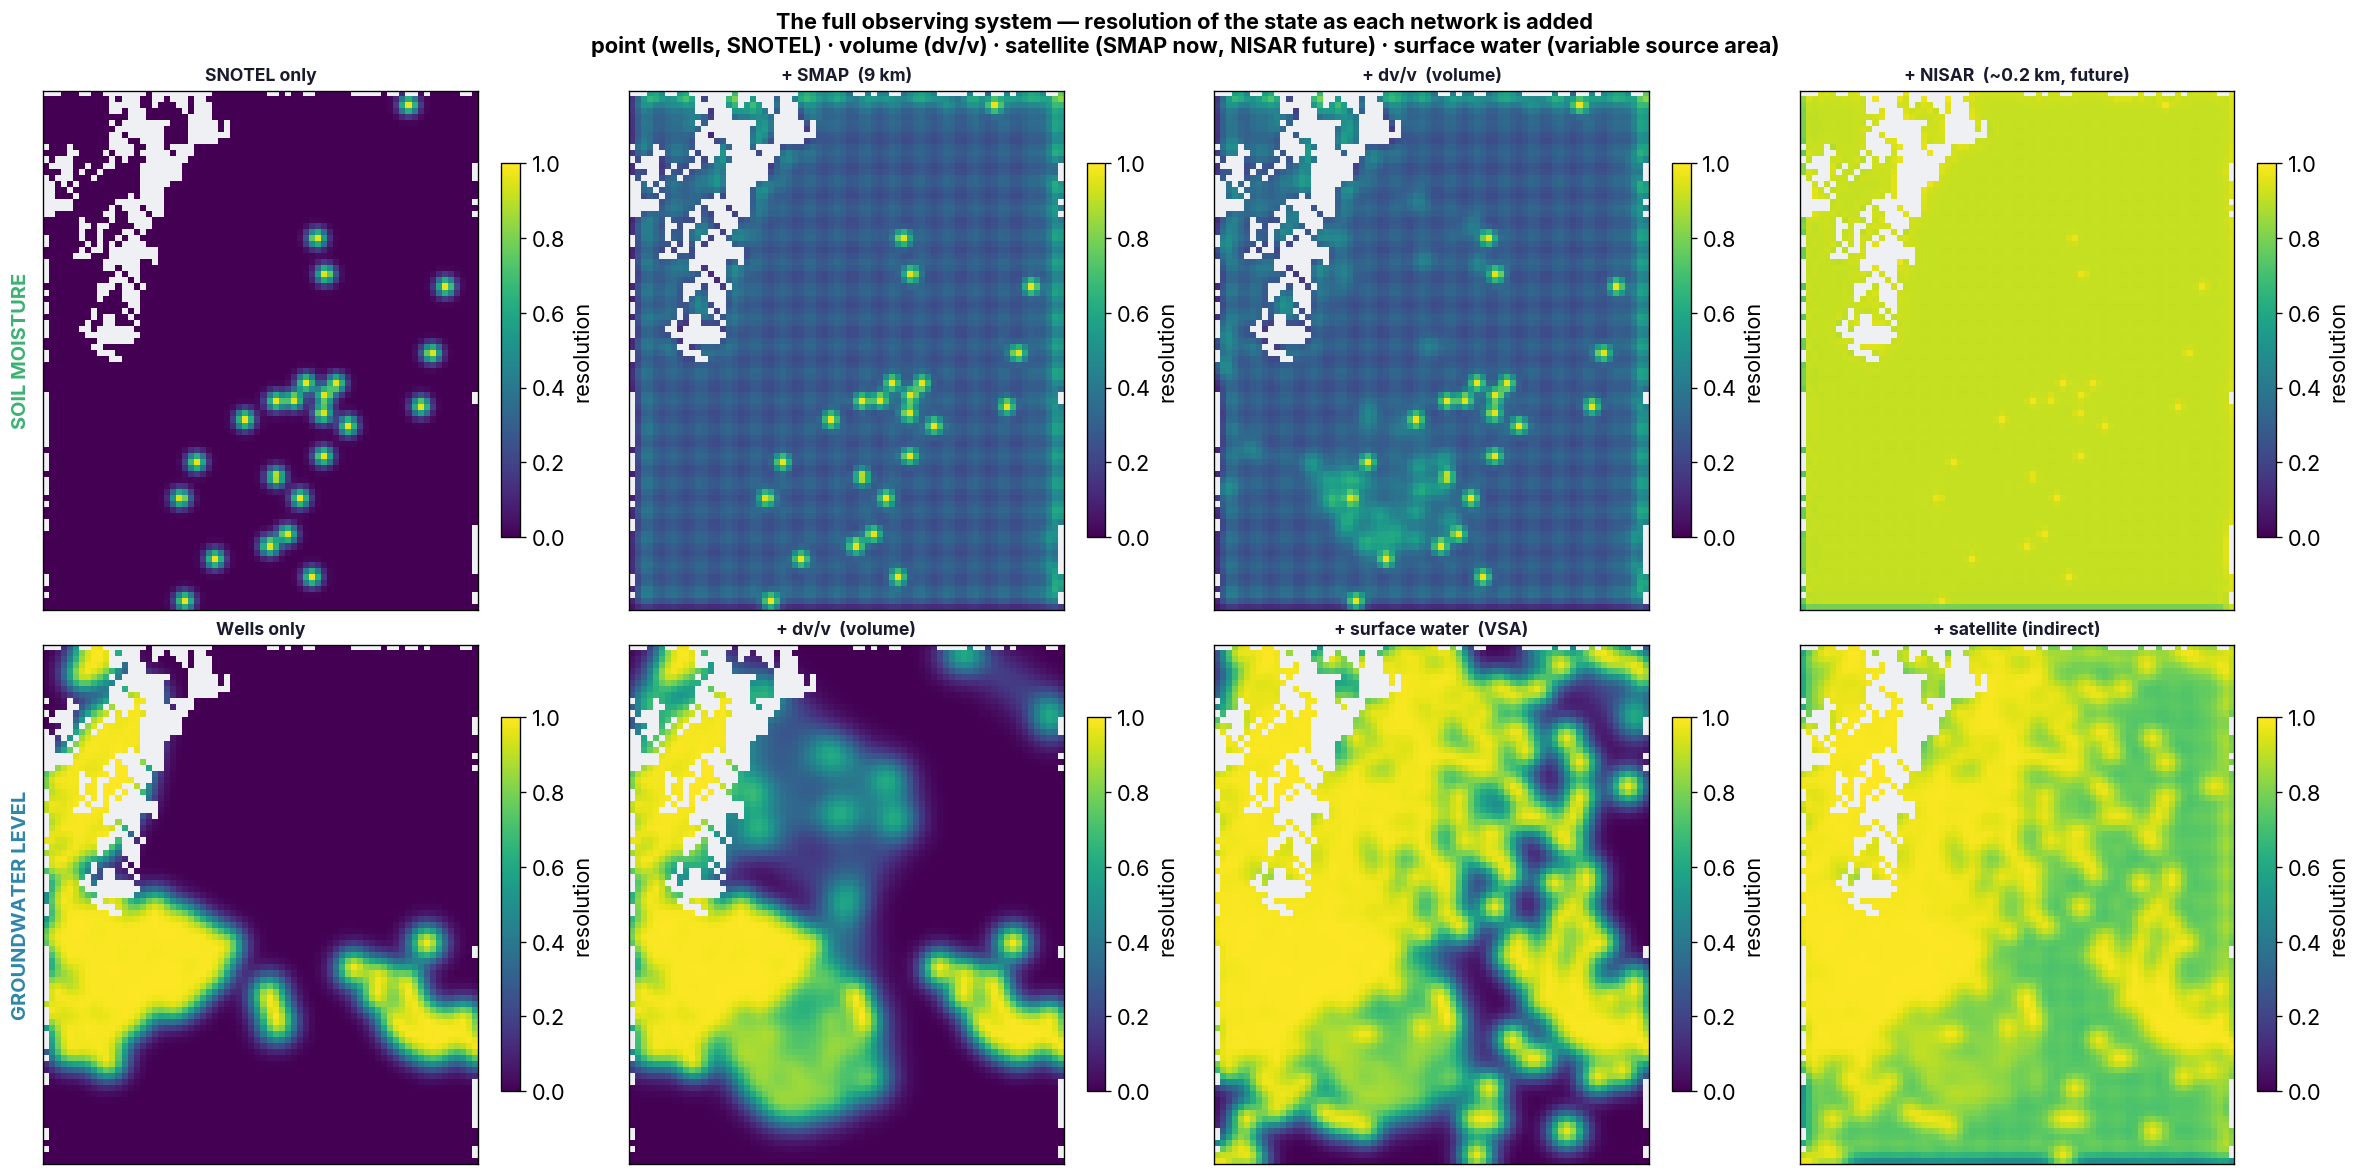
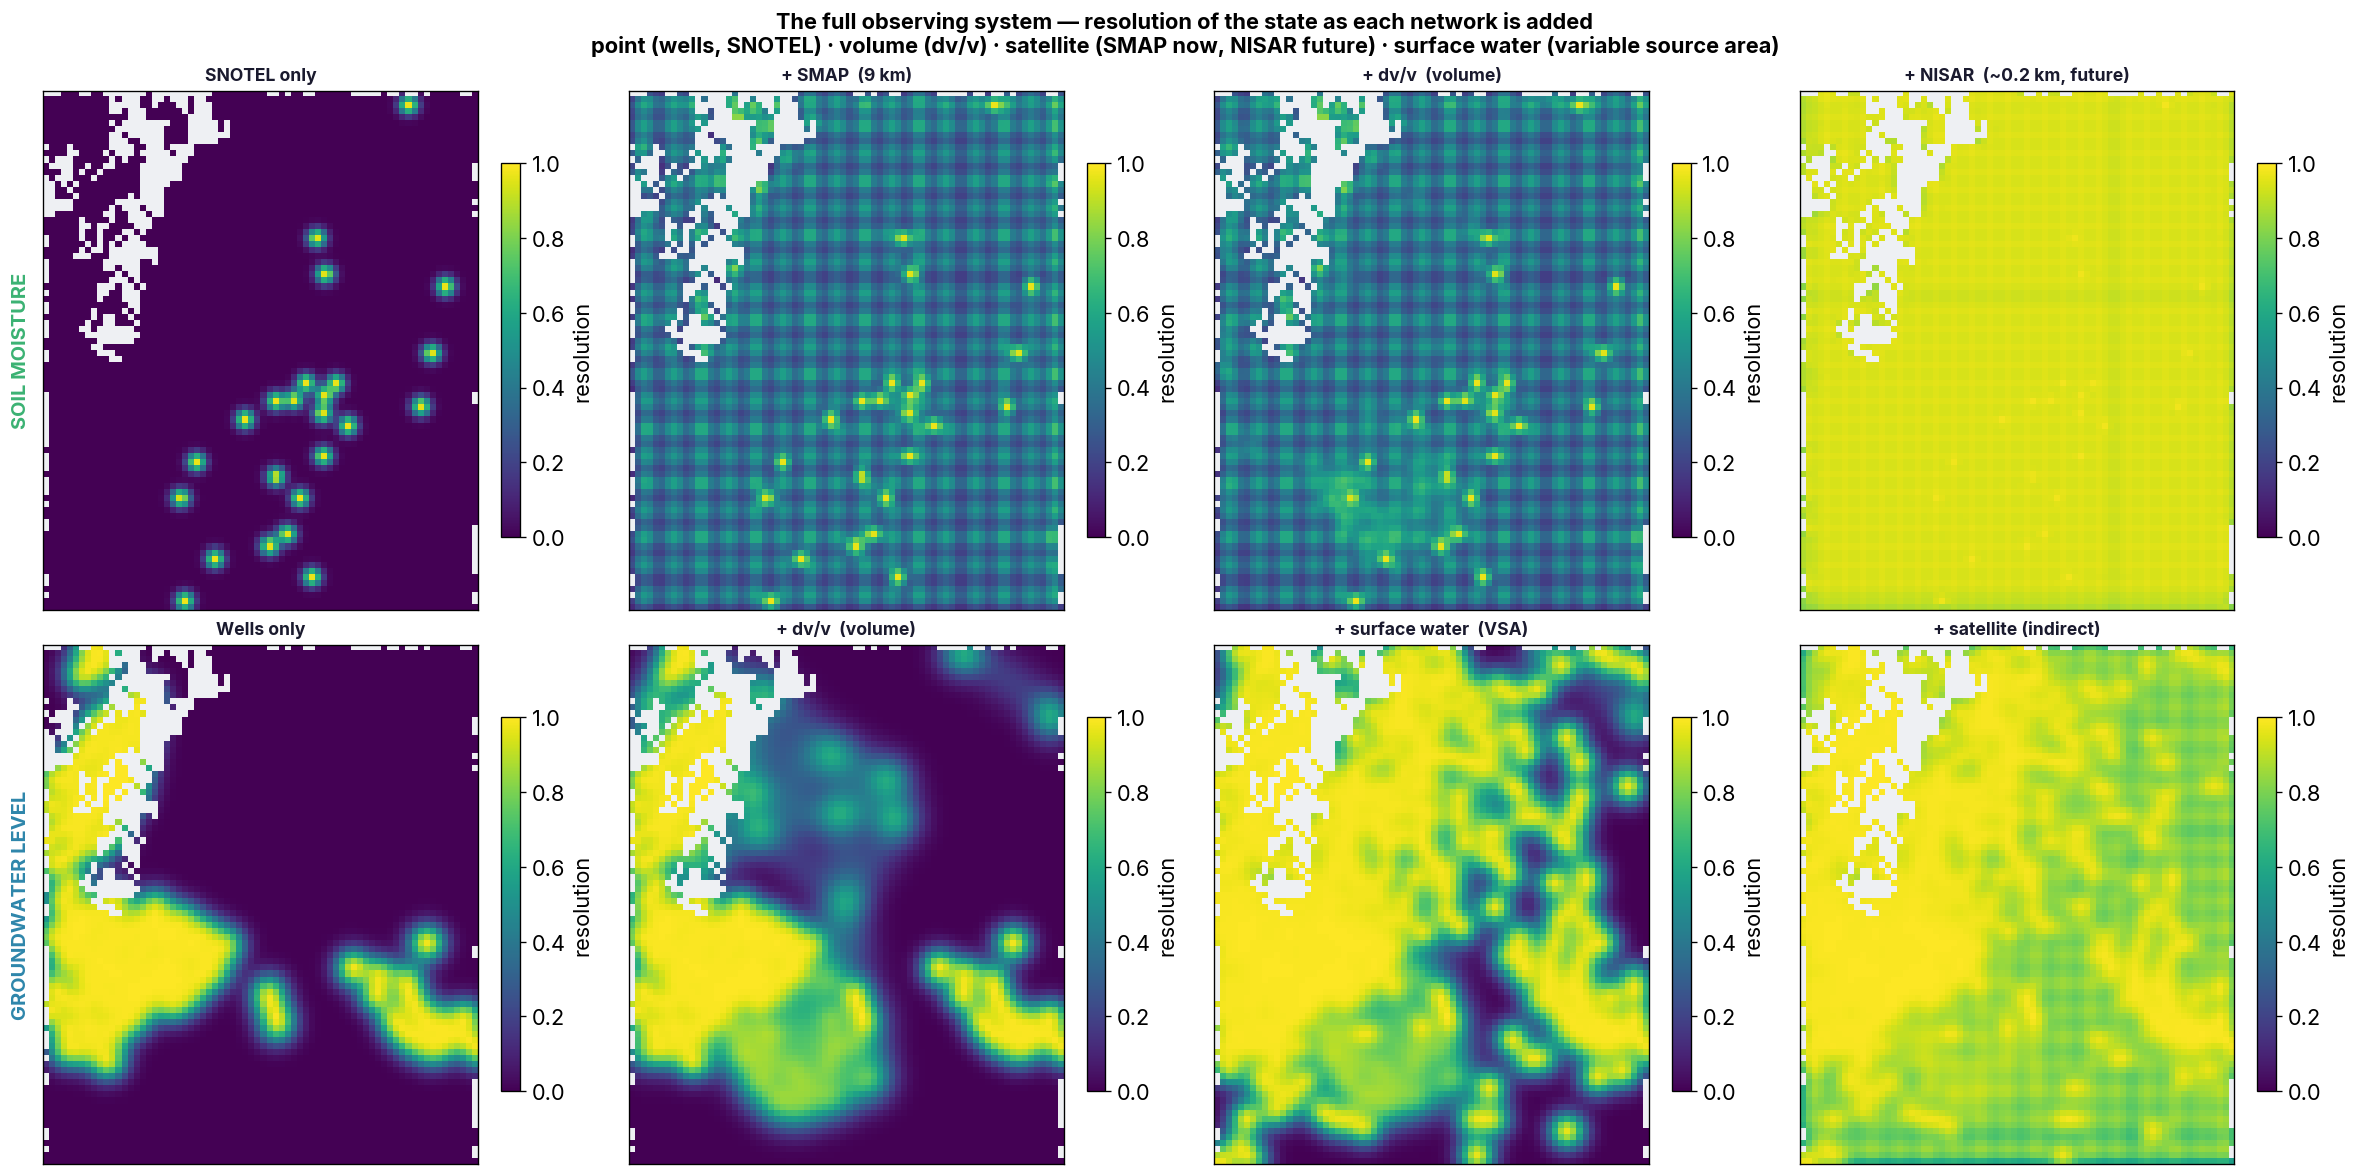
fix(obs): address Copilot review on PR #111 (satellite operator, validation, dead code, caption)
Committed directly to main (PR #111 already merged).

src/models/observability.py:
  - satellite_footprints is now a TRUE top-hat pixel average -- each grid cell is assigned to the
    pixel it falls in and averaged uniformly -- matching the docstring, which had claimed a top-hat
    "averages the state over its cell" while the code used a Gaussian of infinite support. The cell-
    assignment form is robust whether the pixel is coarser than the grid (many cells/pixel) or finer
    (one), and never leaks across the domain edge. Validates pixel_km > 0 and that a `land` mask (1-D
    or a flattened 2-D raster) matches n_cells -- a 2-D mask previously broadcast silently.
  - channel_footprints validates hand_m and land both match n_cells, so a raster misalignment fails
    loudly at the call rather than cryptically later.

notebooks/make_observing_system_figure.py:
  - removed the dead `... if False else ...` branch in the surface-water operator.
  - stack() now takes the prior C explicitly (no closure over a reassigned variable) and SHORT-CIRCUITS
    to an all-zero field when every operator is empty, instead of raising on np.vstack([]).

docs/twin/05-state-evaluation.qmd: reworded the ungrammatical caption "the gauges see only in integral"
-> "whose discharge the gauges see only as a basin integral".

Tests: satellite footprints average uniformly (top-hat, not tapered), reject a bad pixel size and a
[…]

diff --git a/src/models/observability.py b/src/models/observability.py
@@ -188,30 +188,40 @@ def satellite_footprints(coords_km: NDArray[np.float64], pixel_km: float,
     """Footprints of a gridded satellite product with a ``pixel_km`` pixel over the whole domain.
 
     A satellite differs from a ground network in two decisive ways. It observes **everywhere**, not at a
-    handful of sites -- each pixel is a footprint that averages the state over its cell, so the operator
-    is a tiling of blobs across the domain (SMAP, 9 km: dense but coarse; NISAR L-band SAR, ~0.2 km:
-    fine). But it is also **not a measurement of the state** -- a satellite retrieves soil moisture by
-    inverting L-band brightness temperature or radar backscatter through a retrieval model, so it is a
-    spatially-resolved *estimate* carrying retrieval and vegetation/roughness error. Its noise here is
-    therefore a MODEL error, larger than a probe's instrument error, and it must not be treated as
-    ground truth. What it uniquely provides is coverage, not accuracy.
+    handful of sites -- each pixel is a footprint that **averages the state uniformly over the cells that
+    fall within it** (a top-hat pixel average, not a Gaussian): assigning every grid cell to the pixel
+    it lands in tiles the domain exactly, so it is robust whether the pixel is coarser than the grid
+    (SMAP, 9 km: many cells per pixel) or finer (NISAR L-band SAR, ~0.2 km: one). But it is also **not a
+    measurement of the state** -- a satellite retrieves soil moisture by inverting L-band brightness
+    temperature or radar backscatter through a retrieval model, so it is a spatially-resolved *estimate*
+    carrying retrieval and vegetation/roughness error. Its noise here is therefore a MODEL error, larger
+    than a probe's instrument error, and it must not be treated as ground truth.
 
-    Returns ``(n_pixels, n_cell)``. ``land`` (an ``(n_cell,)`` mask) drops all-water pixels.
+    ``land`` (an ``(n_cell,)`` mask, 1-D or a raster flattened to match) drops all-water pixels.
+    Returns ``(n_pixels, n_cell)``.
     """
+    if not (np.isfinite(pixel_km) and pixel_km > 0):
+        raise ValueError(f"pixel_km must be a positive finite number, got {pixel_km!r}")
     c = np.asarray(coords_km, dtype="float64")
+    n = c.shape[0]
+    if land is None:
+        keep = np.ones(n, dtype=bool)
+    else:
+        keep = np.asarray(land, dtype=bool).ravel()          # accept a 2-D raster mask, flattened
+        if keep.size != n:
+            raise ValueError(f"land mask has {keep.size} cells but coords_km has {n}")
     x, y = c[:, 0], c[:, 1]
-    # pixel-centre lattice covering the domain
-    cx = np.arange(x.min() + pixel_km / 2, x.max() + pixel_km, pixel_km)
-    cy = np.arange(y.min() + pixel_km / 2, y.max() + pixel_km, pixel_km)
-    keep = np.ones(c.shape[0], dtype=bool) if land is None else np.asarray(land, dtype=bool)
+    # assign each cell to the pixel it falls in, then average uniformly over a pixel's member cells
+    ix = np.floor((x - x.min()) / pixel_km).astype(np.int64)
+    iy = np.floor((y - y.min()) / pixel_km).astype(np.int64)
+    pix = ix * (iy.max() + 1) + iy
     rows = []
-    for px in cx:
-        for py in cy:
-            g = np.exp(-((x - px) ** 2 + (y - py) ** 2) / (2.0 * (pixel_km / 2.0) ** 2)) * keep
-            tot = g.sum()
-            if tot > 1e-9:                                # skip pixels with no land in them
-                rows.append(g / tot)
-    return np.vstack(rows) if rows else np.empty((0, c.shape[0]))
+    for pid in np.unique(pix):
+        g = (pix == pid) & keep
+        tot = int(g.sum())
+        if tot > 0:                                          # skip pixels with no land in them
+            rows.append(g.astype("float64") / tot)
+    return np.vstack(rows) if rows else np.empty((0, n))
 
 
 def channel_footprints(coords_km: NDArray[np.float64], hand_m: ArrayLike,
@@ -224,11 +234,15 @@ def channel_footprints(coords_km: NDArray[np.float64], hand_m: ArrayLike,
     valley floors and riparian corridors — ``HAND <= hand_max_m``. Each becomes a point-like observation
     that pins the shallow water table where the gauges only see the *integrated* discharge.
 
-    Returns ``(n_channel_cells, n_cell)``.
+    ``hand_m`` and ``land`` may be 1-D or a raster flattened to match ``coords_km``; both must have one
+    value per cell. Returns ``(n_channel_cells, n_cell)``.
     """
     c = np.asarray(coords_km, dtype="float64")
+    n = c.shape[0]
     hand = np.asarray(hand_m, dtype="float64").ravel()
     lnd = np.asarray(land, dtype=bool).ravel()
+    if hand.size != n or lnd.size != n:
+        raise ValueError(f"hand_m ({hand.size}) and land ({lnd.size}) must both match n_cells ({n})")
     chan = lnd & np.isfinite(hand) & (hand <= hand_max_m)
     return np.vstack([point_footprint(c, c[i], width_km) for i in np.flatnonzero(chan)]) \
         if chan.any() else np.empty((0, c.shape[0]))

diff --git a/tests/test_observability.py b/tests/test_observability.py
@@ -24,6 +24,14 @@ from src.models.observability import (
 )
 
 
+def _raises(fn, exc=Exception):
+    try:
+        fn()
+    except exc:
+        return True
+    return False
+
+
 def _grid(n=16, span=20.0):
     a = np.linspace(0, span, n)
     xx, yy = np.meshgrid(a, a)
@@ -130,6 +138,25 @@ def test_satellite_footprints_tile_the_domain_and_a_finer_pixel_resolves_more():
     assert res_coarse.min() > res_pts.min()               # no dark corners under a satellite
 
 
+def test_satellite_footprints_validate_inputs_and_average_uniformly():
+    c = _grid(n=12, span=24.0)
+    G = satellite_footprints(c, pixel_km=8.0)
+    for row in G:                                        # top-hat: a pixel averages uniformly
+        nz = row[row > 0]
+        assert np.allclose(nz, nz[0])
+    assert _raises(lambda: satellite_footprints(c, pixel_km=0.0))
+    assert _raises(lambda: satellite_footprints(c, pixel_km=8.0, land=np.ones(len(c) + 3, bool)))
+    land2d = np.ones((12, 12), dtype=bool)               # a 2-D raster mask (flattened) is accepted
+    assert satellite_footprints(c, 8.0, land=land2d).shape[0] > 0
+
+
+def test_channel_footprints_validate_lengths():
+    c = _grid(n=10, span=20.0)
+    hand = np.hypot(c[:, 0] - 10, c[:, 1] - 10)
+    assert _raises(lambda: channel_footprints(c, hand[:-2], np.ones(len(c), bool)))
+    assert _raises(lambda: channel_footprints(c, hand, np.ones(len(c) - 1, bool)))
+
+
 def test_channel_footprints_sit_only_on_low_hand_cells():
     c = _grid(n=20, span=20.0)
     hand = np.hypot(c[:, 0] - 10, c[:, 1] - 10)           # a valley at the centre, ridges at the edge
@@ -169,6 +196,8 @@ if __name__ == "__main__":
     test_more_sensors_never_reduce_resolution_and_no_sensors_is_zero()
     test_marginal_gain_is_where_the_added_sensor_reaches_beyond_the_base()
     test_satellite_footprints_tile_the_domain_and_a_finer_pixel_resolves_more()
+    test_satellite_footprints_validate_inputs_and_average_uniformly()
+    test_channel_footprints_validate_lengths()
     test_channel_footprints_sit_only_on_low_hand_cells()
     test_temporal_resolution_captures_the_space_time_tradeoff()
     test_information_gain_is_monotone_in_variance_reduction()

diff --git a/notebooks/make_observing_system_figure.py b/notebooks/make_observing_system_figure.py
@@ -86,36 +86,36 @@ def main():
     G_dvv = np.vstack(dvv)
     G_smap = satellite_footprints(coords, 9.0, land)
     G_nisar = satellite_footprints(coords, 3.0, land)                     # ~coarsened NISAR for display
-    G_surf = channel_footprints(coords, hand.values.ravel()[::1] if False else
-                                sub.values.ravel(), land, hand_max_m=3.0)
+    G_surf = channel_footprints(coords, sub.values.ravel(), land, hand_max_m=3.0)
 
     C_gwl = GaussianPrior(1.0, GWL_L_KM).cov(coords)
     C_sm = GaussianPrior(1.0, SM_L_KM).cov(coords)
     m = lambda v: np.where(land, v, np.nan).reshape(shp)                  # noqa: E731
 
-    def stack(gs, ns):
-        G = np.vstack([g for g in gs if g.shape[0]])
-        nv = np.concatenate([np.full(g.shape[0], n) for g, n in zip(gs, ns) if g.shape[0]])
+    def stack(C, gs, ns):
+        nz = [(g, nz_noise) for g, nz_noise in zip(gs, ns) if g.shape[0]]
+        if not nz:                                            # every operator empty -> nothing resolved
+            return np.zeros(len(coords))
+        G = np.vstack([g for g, _ in nz])
+        nv = np.concatenate([np.full(g.shape[0], nz_noise) for g, nz_noise in nz])
         return resolution(C, G, nv)[0]
 
     # SM: cumulative -- SNOTEL, +SMAP, +dv/v, +NISAR(future)
-    C = C_sm
     sm_panels = [
         (resolution(C_sm, G_sno, NOISE["snotel"])[0], "SNOTEL only", "#3BB273"),
-        (stack([G_sno, G_smap], [NOISE["snotel"], NOISE["smap"]]), "+ SMAP  (9 km)", "#3BB273"),
-        (stack([G_sno, G_smap, G_dvv], [NOISE["snotel"], NOISE["smap"], NOISE["dvv_shallow"]]),
+        (stack(C_sm, [G_sno, G_smap], [NOISE["snotel"], NOISE["smap"]]), "+ SMAP  (9 km)", "#3BB273"),
+        (stack(C_sm, [G_sno, G_smap, G_dvv], [NOISE["snotel"], NOISE["smap"], NOISE["dvv_shallow"]]),
          "+ dv/v  (volume)", "#3BB273"),
-        (stack([G_sno, G_smap, G_dvv, G_nisar],
+        (stack(C_sm, [G_sno, G_smap, G_dvv, G_nisar],
                [NOISE["snotel"], NOISE["smap"], NOISE["dvv_shallow"], NOISE["nisar"]]),
          "+ NISAR  (~0.2 km, future)", "#3BB273"),
     ]
-    C = C_gwl
     gwl_panels = [
         (resolution(C_gwl, G_well, NOISE["well"])[0], "Wells only", "#2E86AB"),
-        (stack([G_well, G_dvv], [NOISE["well"], NOISE["dvv_deep"]]), "+ dv/v  (volume)", "#2E86AB"),
-        (stack([G_well, G_dvv, G_surf], [NOISE["well"], NOISE["dvv_deep"], NOISE["surfwater"]]),
+        (stack(C_gwl, [G_well, G_dvv], [NOISE["well"], NOISE["dvv_deep"]]), "+ dv/v  (volume)", "#2E86AB"),
+        (stack(C_gwl, [G_well, G_dvv, G_surf], [NOISE["well"], NOISE["dvv_deep"], NOISE["surfwater"]]),
          "+ surface water  (VSA)", "#2E86AB"),
-        (stack([G_well, G_dvv, G_surf, G_smap],
+        (stack(C_gwl, [G_well, G_dvv, G_surf, G_smap],
                [NOISE["well"], NOISE["dvv_deep"], NOISE["surfwater"], NOISE["smap"]]),
          "+ satellite (indirect)", "#2E86AB"),
     ]